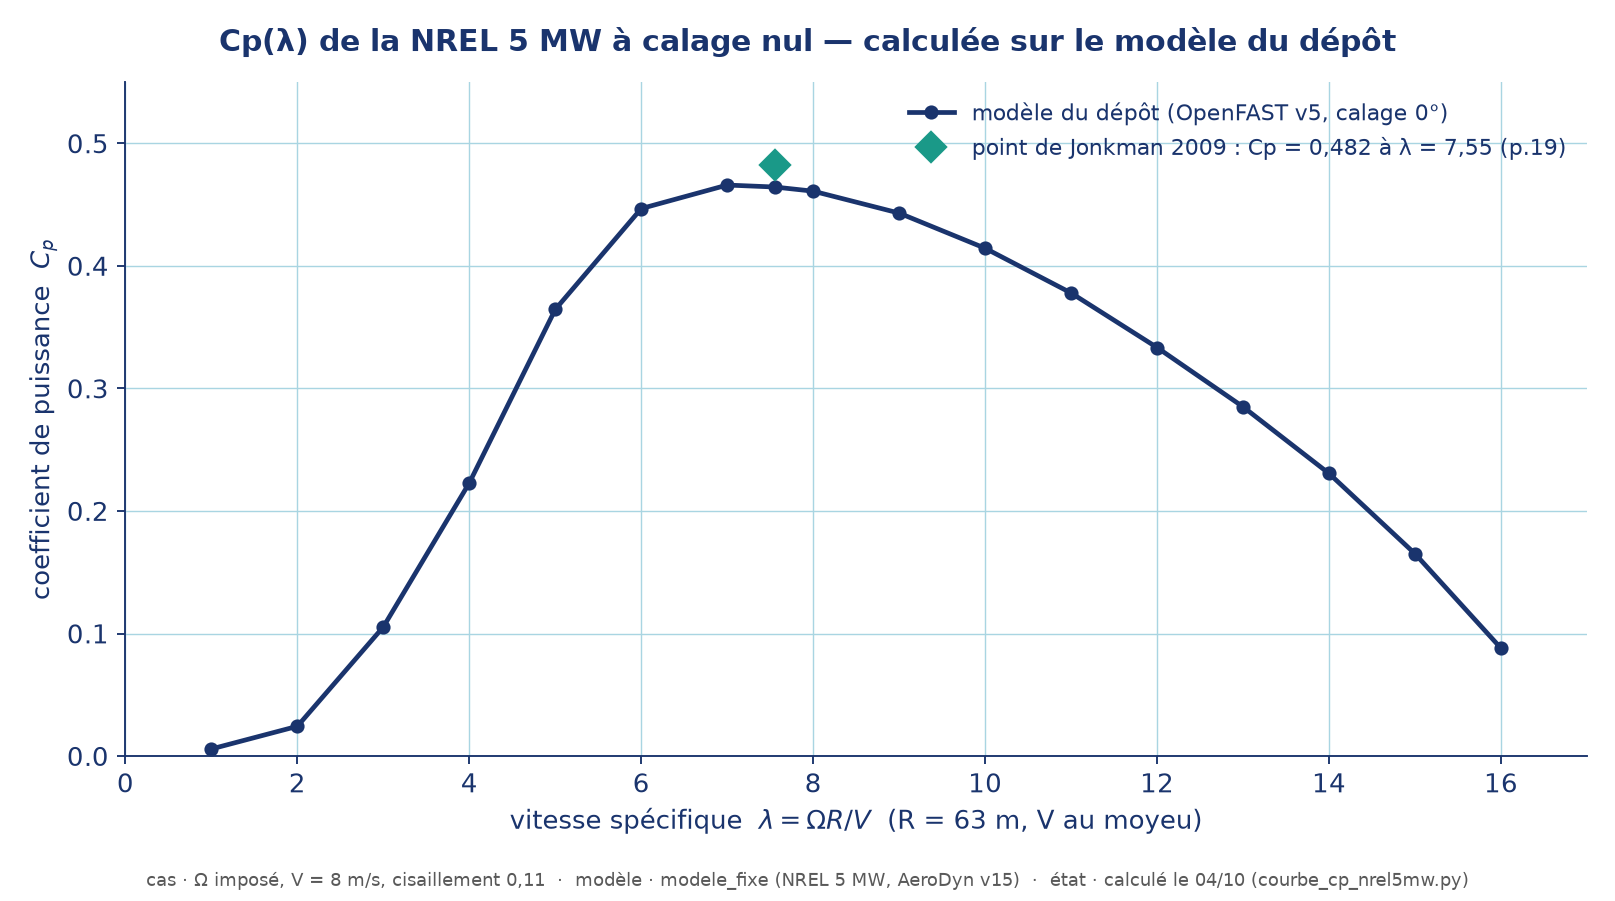
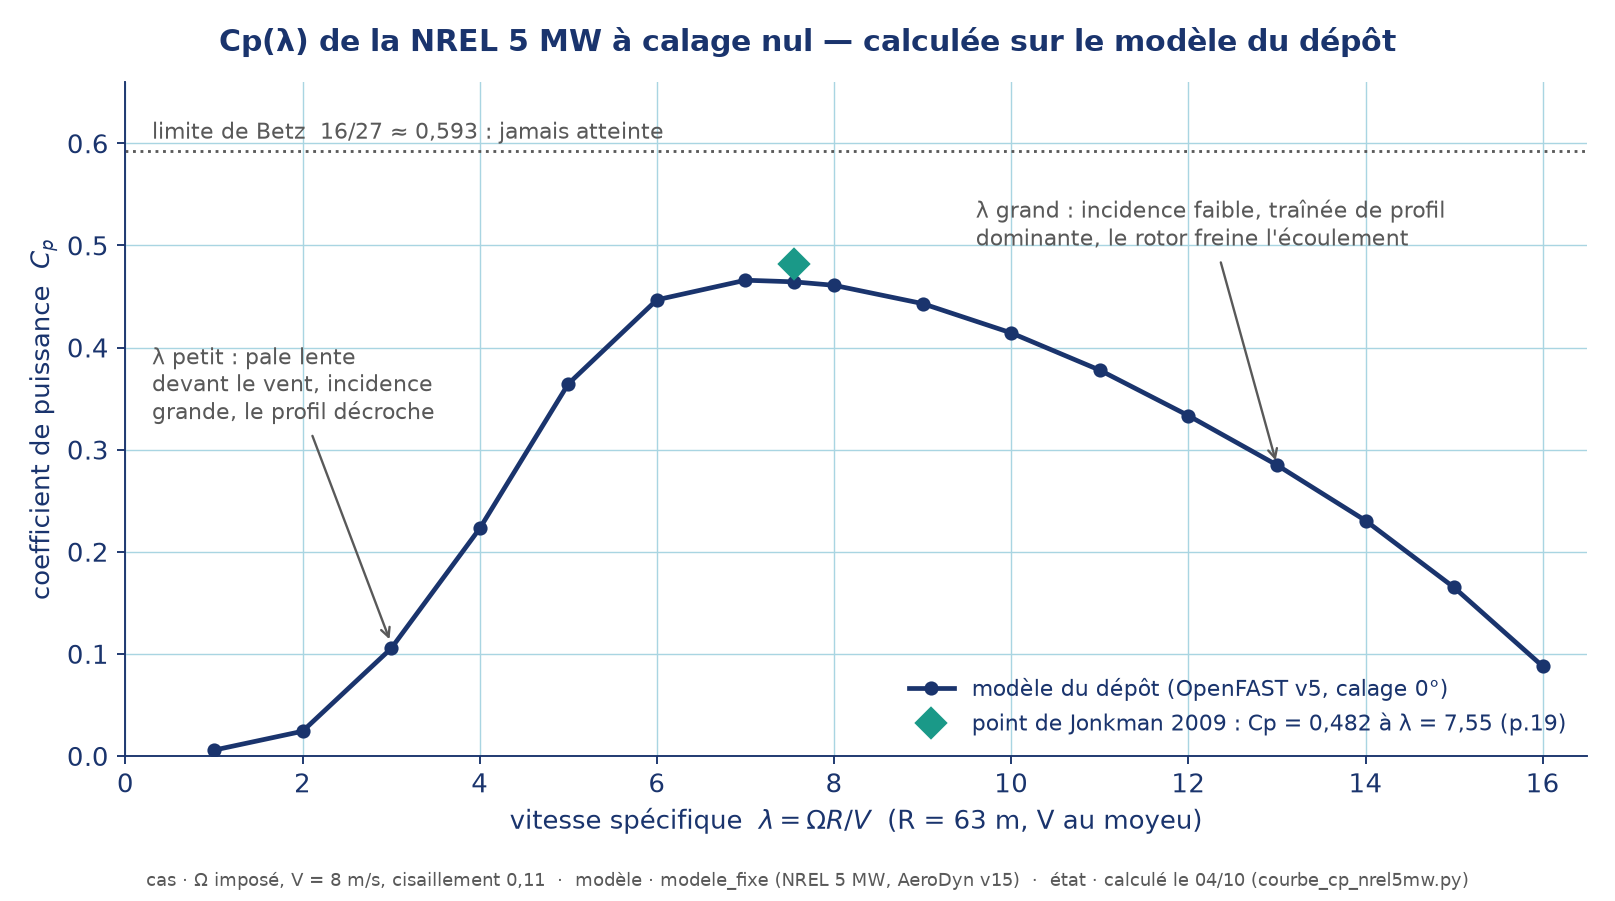
LOT T/A : tableau Cp(lambda) en deux colonnes (3 decimales, jusqu'a 16), legende figure 2, FIG-008 enrichie

diff --git a/fiches/F1_Aero-regulation.md b/fiches/F1_Aero-regulation.md
@@ -57,7 +57,7 @@ Les trois suivantes :
 ![Les cinq régions : allure de Ω, β et P](figures/FIG-DMO-S9-005.png)
 
 *Figure 2 — Allure de `Ω`, `β` et `P` par région (régions de largeur égale, pas à l'échelle : aucune
-vitesse de vent n'est lisible, à vous de calculer les frontières).*
+vitesse de vent n'est lisible, à vous de calculer les frontières). La version à l'échelle, sur axes physiques, ne montre que les données publiées de Jonkman 2009 : la zone entre le cut-in et le vent nominal y reste volontairement vide, c'est l'objet de Q0.1.*
 
 ![Les modules d'OpenFAST](figures/FIG-DMO-S9-003.png)
 
@@ -113,9 +113,25 @@ rotor à vitesse imposée, calage 0°, `V` = 8 m/s au moyeu, cisaillement 0,11 c
 d'un calcul de Jonkman : outil (AeroDyn v15 de ce dépôt), cisaillement 0,11, ombre de la tour, inclinaison de l'arbre et
 précône du modèle du dépôt ; pales rigides ici. On utilise donc la courbe du dépôt, plate entre `λ = 7` et `λ = 8`, pour rester cohérent avec les cas F01 et F02. Interpolation : linéaire ou spline, au choix (écart sans effet sur le résultat à 1 % près).
 
-| λ | 1 | 2 | 3 | 4 | 5 | 6 | 7 | 7,55 | 8 | 9 | 10 | 11 | 12 | 13 | 14 | 15 | 16 |
-|---|---|---|---|---|---|---|---|---|---|---|---|---|---|---|---|---|---|
-| Cp | 0,0058 | 0,0243 | 0,1054 | 0,2229 | 0,3645 | 0,4468 | 0,4660 | 0,4644 | 0,4610 | 0,4431 | 0,4144 | 0,3779 | 0,3334 | 0,2850 | 0,2306 | 0,1651 | 0,0880 |
+| λ | Cp |
+|---:|---:|
+| 1 | 0,006 |
+| 2 | 0,024 |
+| 3 | 0,105 |
+| 4 | 0,223 |
+| 5 | 0,364 |
+| 6 | 0,447 |
+| 7 | 0,466 |
+| 7,55 | 0,464 |
+| 8 | 0,461 |
+| 9 | 0,443 |
+| 10 | 0,414 |
+| 11 | 0,378 |
+| 12 | 0,333 |
+| 13 | 0,285 |
+| 14 | 0,231 |
+| 15 | 0,165 |
+| 16 | 0,088 |
 
 ![Cp(λ) de la NREL 5 MW à calage nul, calculée sur le modèle du dépôt](figures/FIG-DMO-S9-008.png)
 
